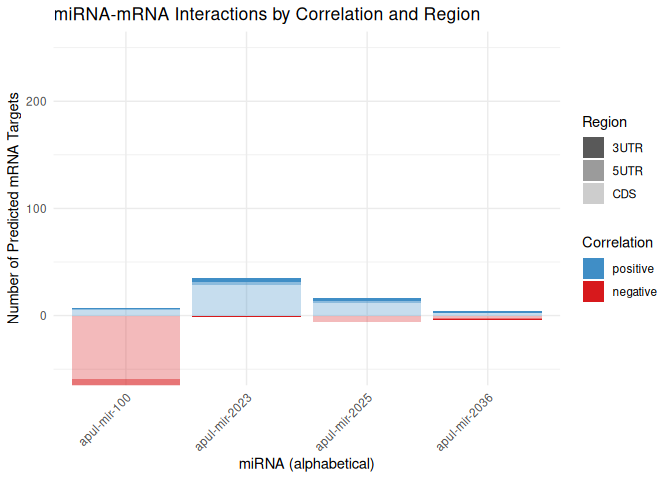
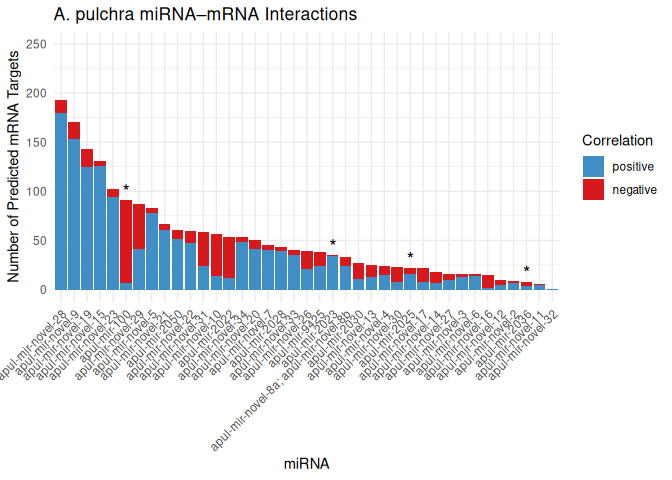
update plots for manuscript

diff --git a/M-multi-species/code/04.2-miRNA-comparison-targets-FE.md b/M-multi-species/code/04.2-miRNA-comparison-targets-FE.md
@@ -1872,6 +1872,87 @@ stacked_opacity_bar <- function(df, species_color, ymin = NULL, ymax = NULL, con
  return(p) 
 }
 
+stacked_bar_simple <- function(df, species_color, species_name, ymin = NULL, ymax = NULL, cons_asterisk = FALSE) {
+
+  # Label correlation direction
+  df_labeled <- df %>%
+    mutate(
+      correlation_direction = case_when(
+        PCC.cor > 0 ~ "positive",
+        PCC.cor < 0 ~ "negative",
+        TRUE ~ "zero"
+      )
+    )
+
+  # Count number of unique mRNA targets per miRNA & correlation direction
+  plot_data <- df_labeled %>%
+    group_by(given_miRNA_name, correlation_direction) %>%
+    summarise(n_mRNA = n_distinct(mRNA), .groups = "drop")
+
+  # ---- NEW: order miRNAs by number of targets (descending) ----
+  miRNA_order <- plot_data %>%
+    group_by(given_miRNA_name) %>%
+    summarise(total = sum(n_mRNA), .groups = "drop") %>%
+    arrange(desc(total)) %>%
+    pull(given_miRNA_name)
+
+  plot_data <- plot_data %>%
+    mutate(given_miRNA_name = factor(given_miRNA_name, levels = miRNA_order))
+
+  # Asterisks for conserved miRNAs (placed above the stacked bar)
+  bar_heights_pos <- plot_data %>%
+    group_by(given_miRNA_name) %>%
+    summarise(pos_height = sum(n_mRNA), .groups = "drop")
+
+  conserved <- df_labeled %>%
+    filter(conservation == "conserved") %>%
+    pull(given_miRNA_name) %>% unique()
+
+  offset <- 2
+  asterisk_df <- bar_heights_pos %>%
+    filter(given_miRNA_name %in% conserved) %>%
+    mutate(
+      label = "*",
+      y_pos = pos_height + offset
+    )
+
+  # ---- PLOT: no shading, no negative direction flip ----
+  p <- ggplot(plot_data, aes(x = given_miRNA_name, y = n_mRNA)) +
+    geom_col(aes(fill = correlation_direction), position = "stack") +
+    scale_fill_manual(
+      values = c(
+        positive = species_color,
+        negative = "#d7191c",
+        zero = "grey70"
+      ),
+      breaks = c("positive", "negative", "zero")
+    ) +
+    theme_minimal() +
+    labs(
+      title = paste0(species_name, " miRNA–mRNA Interactions"),
+      x = "miRNA",
+      y = "Number of Predicted mRNA Targets",
+      fill = "Correlation"
+    ) +
+    theme(axis.text.x = element_text(angle = 45, hjust = 1))
+
+  # Optional y-limits
+  if (!is.null(ymin) & !is.null(ymax)) {
+    p <- p + coord_cartesian(ylim = c(ymin, ymax))
+  }
+
+  # Add conservation asterisks
+  if (cons_asterisk == TRUE) {
+    p <- p + geom_text(
+      data = asterisk_df,
+      aes(x = given_miRNA_name, y = y_pos, label = label),
+      color = "black", size = 5, vjust = 0
+    )
+  }
+
+  return(p)
+}
+
 stacked_opacity_bar(Apul_FA_df, "#408EC6", ymin=-200 , ymax=250, cons_asterisk=TRUE)
 ```
 
@@ -1890,22 +1971,40 @@ stacked_opacity_bar(Ptuh_FA_df, "#7A2048", ymin=-200 , ymax=250, cons_asterisk=T
 ![](04.2-miRNA-comparison-targets-FE_files/figure-gfm/unnamed-chunk-21-3.png)<!-- -->
 
 ``` r
-stacked_opacity_bar(Apul_FA_df[Apul_FA_df$conservation=="conserved",], "#408EC6", ymin=-50, ymax=250)
+stacked_bar_simple(Apul_FA_df, "#408EC6", "A. pulchra", ymin=0 , ymax=250, cons_asterisk=TRUE)
 ```
 
 ![](04.2-miRNA-comparison-targets-FE_files/figure-gfm/unnamed-chunk-21-4.png)<!-- -->
 
 ``` r
-stacked_opacity_bar(Peve_FA_df[Peve_FA_df$conservation=="conserved",], "#1E2761", ymin=-50, ymax=250)
+stacked_bar_simple(Peve_FA_df, "#1E2761", "P. evermanni", ymin=0 , ymax=250, cons_asterisk=TRUE)
 ```
 
 ![](04.2-miRNA-comparison-targets-FE_files/figure-gfm/unnamed-chunk-21-5.png)<!-- -->
 
 ``` r
-stacked_opacity_bar(Ptuh_FA_df[Ptuh_FA_df$conservation=="conserved",], "#7A2048", ymin=-50, ymax=250)
+stacked_bar_simple(Ptuh_FA_df, "#7A2048", "P. tuahiniensis", ymin=0 , ymax=250, cons_asterisk=TRUE)
 ```
 
 ![](04.2-miRNA-comparison-targets-FE_files/figure-gfm/unnamed-chunk-21-6.png)<!-- -->
+
+``` r
+stacked_opacity_bar(Apul_FA_df[Apul_FA_df$conservation=="conserved",], "#408EC6", ymin=-50, ymax=250)
+```
+
+![](04.2-miRNA-comparison-targets-FE_files/figure-gfm/unnamed-chunk-21-7.png)<!-- -->
+
+``` r
+stacked_opacity_bar(Peve_FA_df[Peve_FA_df$conservation=="conserved",], "#1E2761", ymin=-50, ymax=250)
+```
+
+![](04.2-miRNA-comparison-targets-FE_files/figure-gfm/unnamed-chunk-21-8.png)<!-- -->
+
+``` r
+stacked_opacity_bar(Ptuh_FA_df[Ptuh_FA_df$conservation=="conserved",], "#7A2048", ymin=-50, ymax=250)
+```
+
+![](04.2-miRNA-comparison-targets-FE_files/figure-gfm/unnamed-chunk-21-9.png)<!-- -->
 
 Couldn’t figure out how to add a “transpose” option without messing up
 other features (e.g. axis min/max), so just write a completely alternate
